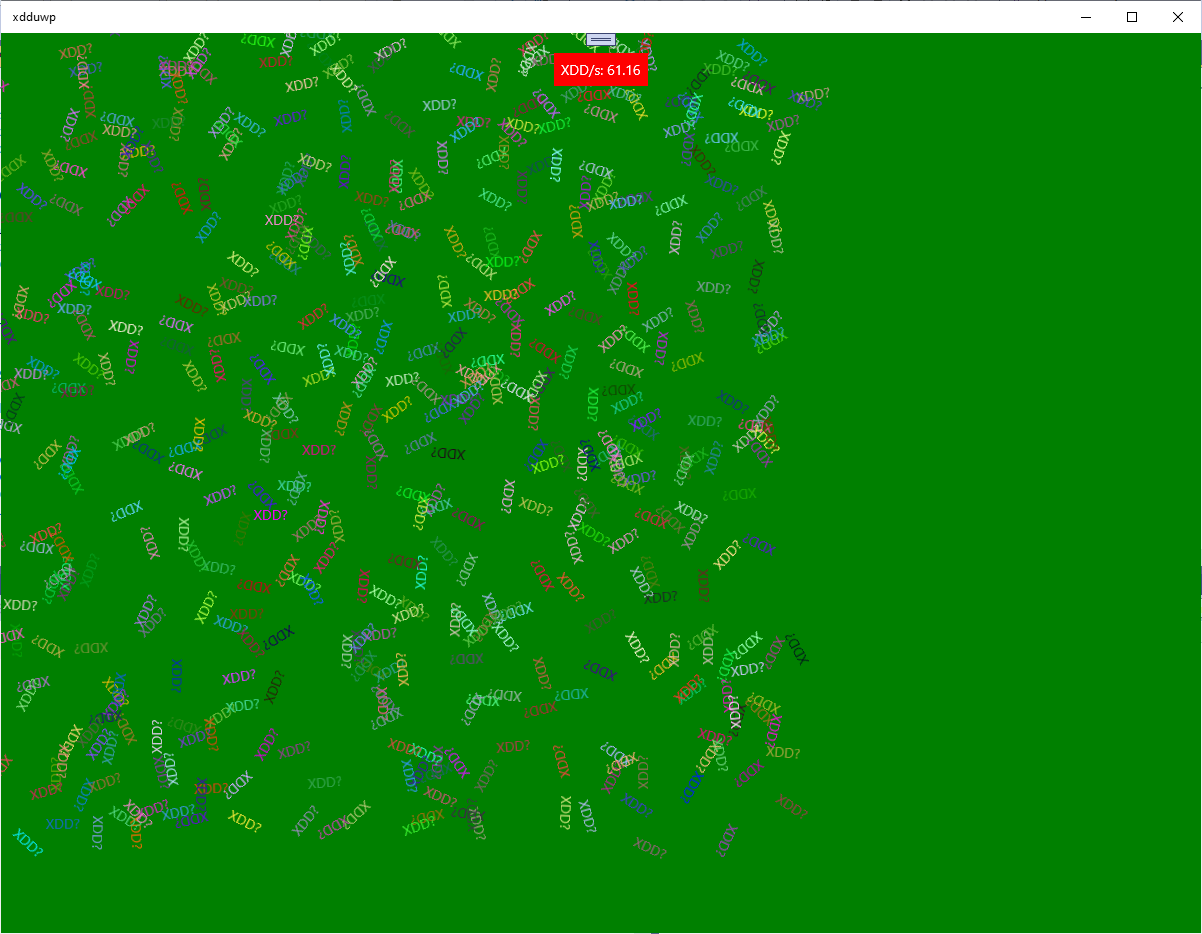
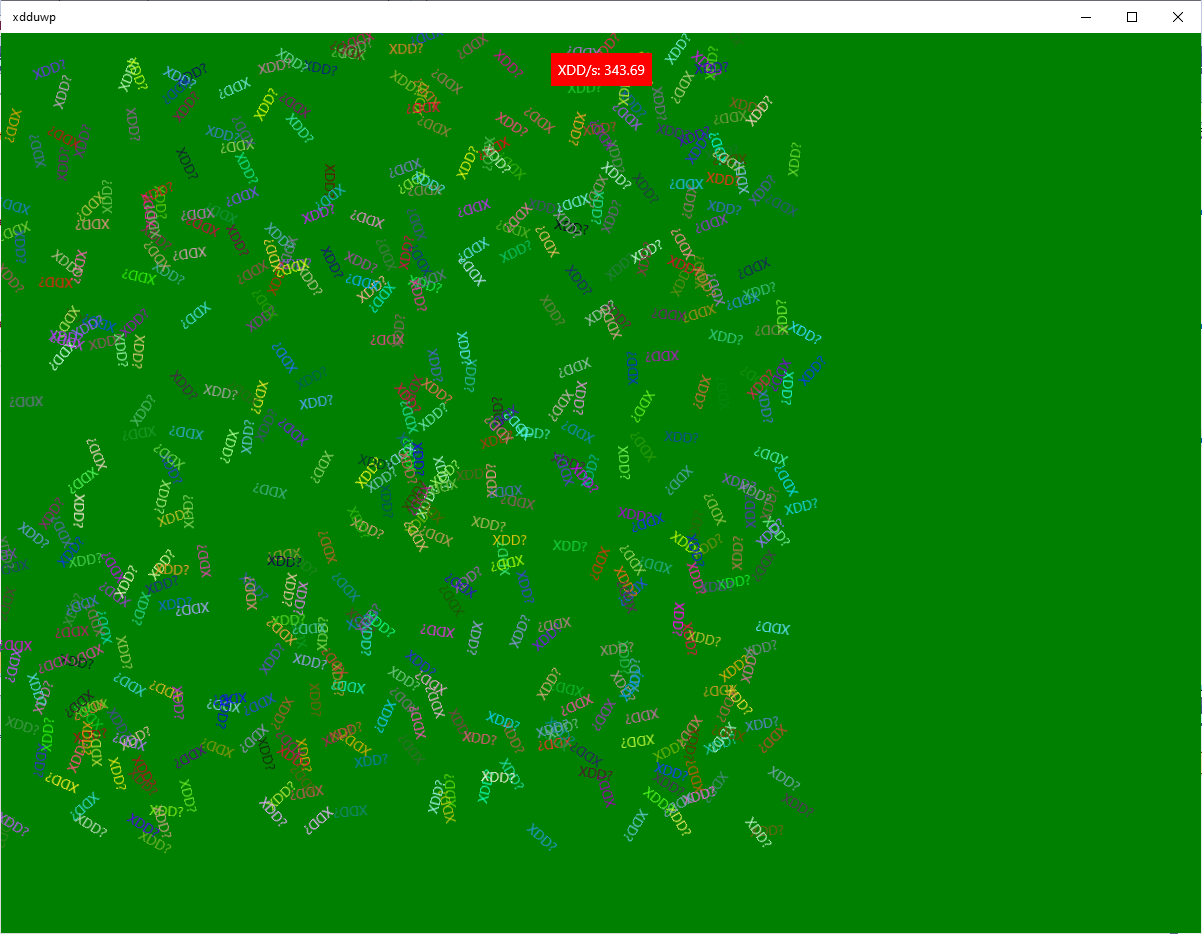
Make consistent numbers

Changed region(s): [[0.0, 0.031, 0.708, 0.9315]]

diff --git a/xddswpf/MainWindow.xaml b/xddswpf/MainWindow.xaml
@@ -16,7 +16,7 @@
             <ColumnDefinition Width="*" />
         </Grid.ColumnDefinitions>
 
-        <Canvas x:Name="absolute" Grid.Row="0" Grid.RowSpan="2" Grid.Column="0" Background="White">
+        <Canvas x:Name="absolute" Grid.Row="0" Grid.RowSpan="2" Grid.Column="0" Background="Black">
 
         </Canvas>
 

diff --git a/README.md b/README.md
@@ -18,13 +18,13 @@ Intel(R) Core(TM) i7-3630QM CPU @ 2.40GHz   2.40 GHz
 <img src="docs/measurements.png" width="600" />
 
 ## UWP
-320 xdds per second
+343 xdds per second
 
 <img src="docs/uwp_measurements.png" width="600" />
 
 ## WPF
 
-480 xdds per second
+524 xdds per second
 
 <img src="docs/wpf_measurements.png" width="600" />
 
